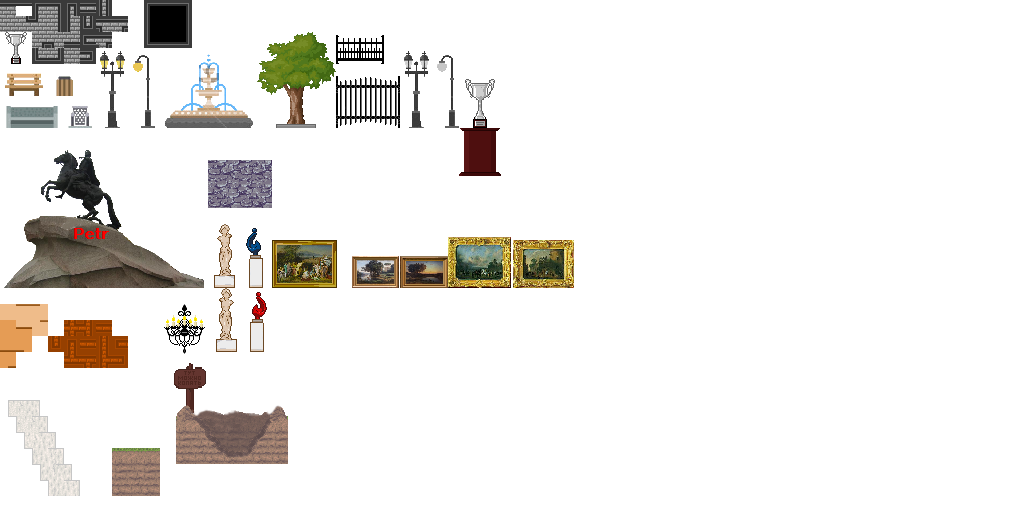
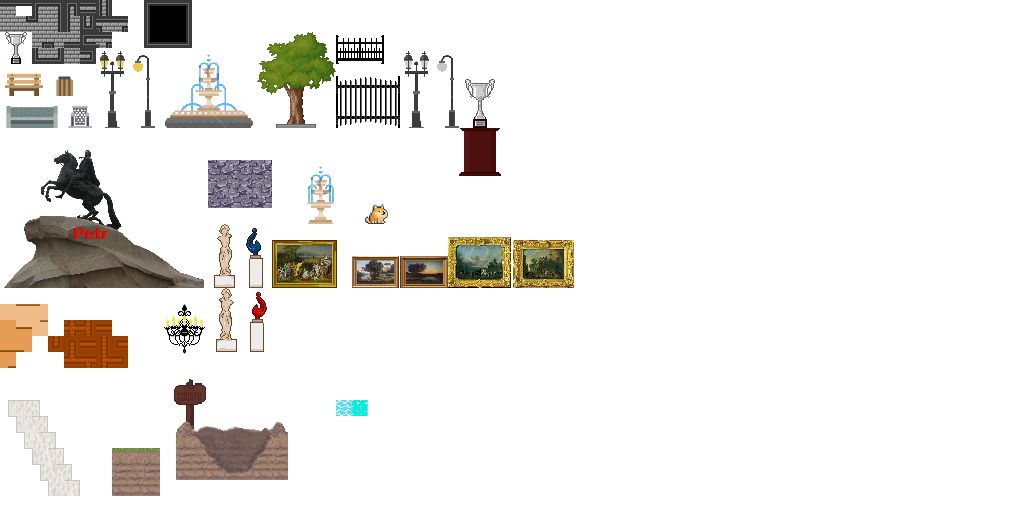
level 10

Changed region(s): [[0.1562, 0.7188, 0.2812, 0.9375], [0.2812, 0.3438, 0.375, 0.4375], [0.3125, 0.7812, 0.375, 0.8125]]

diff --git a/Game/core/src/com/kaliwe/neercgame/utils/ResourceUtils.java b/Game/core/src/com/kaliwe/neercgame/utils/ResourceUtils.java
@@ -112,8 +112,10 @@ public class ResourceUtils {
 
         // Backgrounds
         textureRegions.put("buildings", new TextureRegion(new Texture(Gdx.files.internal("buildings.png"))));
+        textureRegions.put("special-edition", new TextureRegion(new Texture(Gdx.files.internal("special-edition.png"))));
         textureRegions.put("buildings-zinger", new TextureRegion(new Texture(Gdx.files.internal("buildings-zinger.png"))));
         textureRegions.put("clouds", new TextureRegion(new Texture(Gdx.files.internal("clouds.png"))));
+        textureRegions.put("x13", new TextureRegion(new Texture(Gdx.files.internal("x13.png"))));
         textureRegions.put("cloudsBack", new TextureRegion(new Texture(Gdx.files.internal("clouds_back.png"))));
 
         // Sound
@@ -138,7 +140,8 @@ public class ResourceUtils {
         maps.put("level7", mapLoader.load(Gdx.files.internal("level7.tmx").path()));
 
         maps.put("level8", mapLoader.load(Gdx.files.internal("level8.tmx").path()));
-        maps.put("level9", mapLoader.load(Gdx.files.internal("level1.tmx").path()));
+        maps.put("level9", mapLoader.load(Gdx.files.internal("level9.tmx").path()));
+        maps.put("level10", mapLoader.load(Gdx.files.internal("level10.tmx").path()));
 
         maps.put("test", mapLoader.load(Gdx.files.internal("test.tmx").path()));
 

diff --git a/Game/core/src/com/kaliwe/neercgame/stages/Level9.java b/Game/core/src/com/kaliwe/neercgame/stages/Level9.java
@@ -1,6 +1,9 @@
 package com.kaliwe.neercgame.stages;
 
+import com.badlogic.gdx.Gdx;
 import com.badlogic.gdx.graphics.OrthographicCamera;
+import com.kaliwe.neercgame.utils.Background;
+import com.kaliwe.neercgame.utils.ResourceUtils;
 
 /**
  * Created by anton on 06.12.15.
@@ -8,7 +11,18 @@ import com.badlogic.gdx.graphics.OrthographicCamera;
 public class Level9 extends Level1 {
     public Level9() {
         super("level9", "Reversed shit");
+        Gdx.gl.glClearColor(135/255f,206/255f,235/255f,1);
+        cameraLowerY = 15;
+        float skyOffset = 230;
+        hudCam.rotate(180f);
+        hudCam.update();
+        bgs.add(new Background(ResourceUtils.getTextureRegion("cloudsBack"), 0.4f, 5f, 0.9f, hudCam, 0, skyOffset));
+        bgs.add(new Background(ResourceUtils.getTextureRegion("clouds"), 0.5f, 8f, 0.8f, hudCam, 0, skyOffset));
+        bgs.add(new Background(ResourceUtils.getTextureRegion("special-edition"), 0.5f, 10f, 0.8f, hudCam, 0, skyOffset+5));
+        bgs.add(new Background(ResourceUtils.getTextureRegion("buildings"), 1.5f, 10f , 1f, hudCam, 0, cameraLowerY*14));
+
         ((OrthographicCamera)getCamera()).rotate(180f);
+
     }
 
 }

diff --git a/Game/core/src/com/kaliwe/neercgame/stages/Level10.java b/Game/core/src/com/kaliwe/neercgame/stages/Level10.java
@@ -7,15 +7,16 @@ import com.kaliwe.neercgame.utils.ResourceUtils;
 /**
  * Created by anton on 05.12.15.
  */
-public class Level8 extends Level1 {
-    public Level8() {
-        super("level8", "Museum");
+public class Level10 extends Level1 {
+    public Level10() {
+        super("level10", "x13");
         Gdx.gl.glClearColor(135/255f,206/255f,235/255f,1);
 
         float skyOffset = 260;
         bgs.add(new Background(ResourceUtils.getTextureRegion("cloudsBack"), 0.4f, 5f, 0.9f, hudCam, 0, skyOffset));
         bgs.add(new Background(ResourceUtils.getTextureRegion("clouds"), 0.5f, 8f, 0.8f, hudCam, 0, skyOffset));
-        bgs.add(new Background(ResourceUtils.getTextureRegion("buildings"), 1.5f, 10f , 1f, hudCam, 0, cameraLowerY*14));
+        bgs.add(new Background(ResourceUtils.getTextureRegion("x13"), 0.5f, 10f, 0.8f, hudCam, 0, skyOffset-40));
+        bgs.add(new Background(ResourceUtils.getTextureRegion("buildings"), 1.5f, 10f , 1f, hudCam, 400, cameraLowerY*14));
 
     }
 }

diff --git a/Game/core/src/com/kaliwe/neercgame/screens/GameStateManager.java b/Game/core/src/com/kaliwe/neercgame/screens/GameStateManager.java
@@ -21,7 +21,8 @@ public class GameStateManager {
         //add(Level6.class);
         //add(Level7.class);
         //add(Level8.class);
-        add(Level9.class);
+        //add(Level9.class);
+        add(Level10.class);
     }}.iterator();
     private static Class<? extends GameStage> last;
     private static Stage lastInstance;

diff --git a/Game/core/src/com/kaliwe/neercgame/stages/Level7.java b/Game/core/src/com/kaliwe/neercgame/stages/Level7.java
@@ -1,10 +1,14 @@
 package com.kaliwe.neercgame.stages;
 
+import com.badlogic.gdx.Gdx;
+
 /**
  * Created by anton on 05.12.15.
  */
 public class Level7 extends Level1 {
     public Level7() {
         super("level7", "Museum");
+        Gdx.gl.glClearColor(135/255f,206/255f,235/255f,1);
+
     }
 }
